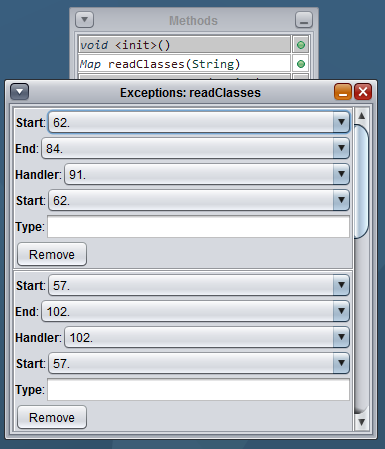
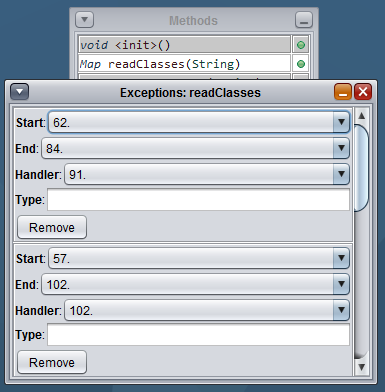
Added ability to insert new try-catch block ranges

diff --git a/docs/features.html b/docs/features.html
@@ -46,8 +46,11 @@
 			<li>Code</li>
 			<ul>
 				<li>Opcodes</li>
+				<li>Local Variables</li>
 				<ul>
-					<li>Example: Editing an InvokeVirtual</li>
+					<li>Name</li>
+					<li>Descriptor</li>
+					<li>Signature <i>(Generic type)</i></li>
 				</ul>
 				<li>MaxStack / MaxLocals <i>(Computed automatically by ASM)</i></li>
 			</ul>
@@ -85,9 +88,6 @@
 		<ul>
 			<li>Fields</li>
 			<li>Methods</li>
-			<ul>
-				<li>Exception table entries <i>(Try-catch block ranges)</i></li>
-			</ul>
 		</ul>
 	</ul>
 	-->

diff --git a/src/me/coley/recaf/ui/component/internalframe/TryCatchBox.java b/src/me/coley/recaf/ui/component/internalframe/TryCatchBox.java
@@ -33,39 +33,55 @@ public class TryCatchBox extends BasicFrame {
 		add(scroll, BorderLayout.CENTER);
 		update(mn);
 		int k = 162;
-		int s = Math.min(k*2, k * mn.tryCatchBlocks.size());
+		int s = Math.min(k * 2, k * mn.tryCatchBlocks.size());
 		scroll.setPreferredSize(new Dimension(350, s));
 		setVisible(true);
 	}
 
 	private void update(MethodNode mn) {
-		// scroll.removeAll();
-		JPanel a = new JPanel();
-		a.setLayout(new GridLayout(0, 1));
-		for (int i = 0; i < mn.tryCatchBlocks.size(); i++) {
-			final int j = i;
-			JPanel panel = new JPanel();
-			panel.setLayout(new BoxLayout(panel, BoxLayout.Y_AXIS));
-			panel.setBorder(BorderFactory.createEtchedBorder());
-			TryCatchBlockNode block = mn.tryCatchBlocks.get(i);
-			List<JComponent> comps = new ArrayList<>();
-			comps.add(new LabeledComponent("<html><b>Start</b>: ", new LabelSwitcherPanel( mn, block.start, l ->  block.start = l)));
-			comps.add(new LabeledComponent("<html><b>End</b>: ", new LabelSwitcherPanel( mn, block.end, l ->  block.end = l)));
-			comps.add(new LabeledComponent("<html><b>Handler</b>: ", new LabelSwitcherPanel( mn, block.handler, l ->  block.handler = l)));
-			comps.add(new LabeledComponent("<html><b>Start</b>: ", new LabelSwitcherPanel( mn, block.start, l ->  block.start = l)));
-			comps.add(new LabeledComponent("<html><b>Type</b>: ", new ActionTextField(block.type, s -> block.type = s)));
-			comps.add(new ActionButton("Remove", () -> {
-				mn.tryCatchBlocks.remove(j);
+		JPanel content = new JPanel();
+		content.setLayout(new GridLayout(0, 1));
+		for (int i = 0; i <= mn.tryCatchBlocks.size(); i++) {
+			content.add(make(i, mn));
+		}
+		scroll.setViewportView(content);
+	}
+
+	private JPanel make(final int i, MethodNode mn) {
+		boolean isNew = i >= mn.tryCatchBlocks.size();
+		JPanel panel = new JPanel();
+		panel.setLayout(new BoxLayout(panel, BoxLayout.Y_AXIS));
+		panel.setBorder(BorderFactory.createEtchedBorder());
+		TryCatchBlockNode block;
+		if (isNew) {
+			block = new TryCatchBlockNode(null, null, null, "");
+		} else {
+			block = mn.tryCatchBlocks.get(i);
+		}
+		List<JComponent> comps = new ArrayList<>();
+		comps.add(new LabeledComponent("<html><b>Start</b>: ", new LabelSwitcherPanel(mn, block.start, l -> block.start = l)));
+		comps.add(new LabeledComponent("<html><b>End</b>: ", new LabelSwitcherPanel(mn, block.end, l -> block.end = l)));
+		comps.add(new LabeledComponent("<html><b>Handler</b>: ", new LabelSwitcherPanel(mn, block.handler,
+				l -> block.handler = l)));
+		comps.add(new LabeledComponent("<html><b>Type</b>: ", new ActionTextField(block.type, s -> block.type = s)));
+		if (isNew) {
+			comps.add(new ActionButton("Insert", () -> {
+				if (block.start == null || block.end == null || block.handler == null) {
+					return;
+				}
+				mn.tryCatchBlocks.add(block);
 				update(mn);
 			}));
-			for (JComponent c : comps) {
-				c.setAlignmentX(JComponent.LEFT_ALIGNMENT);
-				panel.add(c);
-			}
-			a.add(panel);
+		} else {
+			comps.add(new ActionButton("Remove", () -> {
+				mn.tryCatchBlocks.remove(i);
+				update(mn);
+			}));
 		}
-		scroll.setViewportView(a);
-		// scroll.repaint();
-		// scroll.validate();
+		for (JComponent c : comps) {
+			c.setAlignmentX(JComponent.LEFT_ALIGNMENT);
+			panel.add(c);
+		}
+		return panel;
 	}
 }
